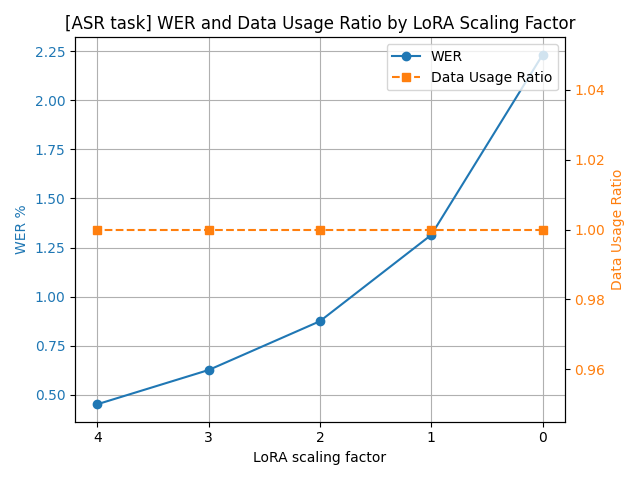
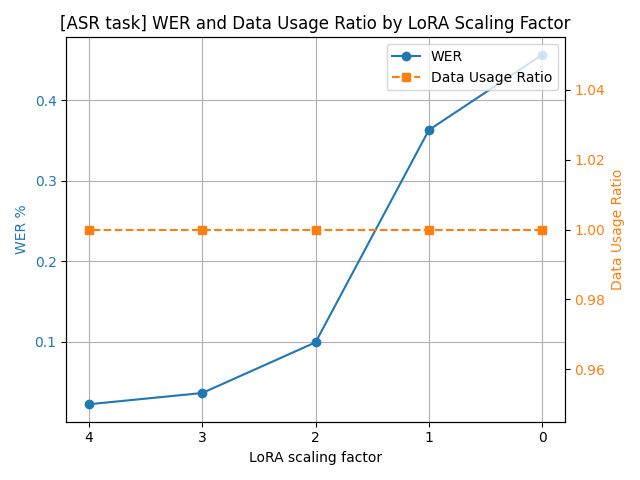
updated: figure3 on ASR task (limit dataset)

diff --git a/dist_eval/eval_wer.py b/dist_eval/eval_wer.py
@@ -43,8 +43,8 @@ def printer(key, answer, infer, type):
 
 redis_dbs = [
     ("LibriSpeech-ASR-test-clean", 2),
-    ("LibriSpeech-ASR-test-other", 3),
-    ("GigaSpeech-ASR-test", 5),
+    # ("LibriSpeech-ASR-test-other", 3),
+    # ("GigaSpeech-ASR-test", 5),
 ]
 
 skip = True
